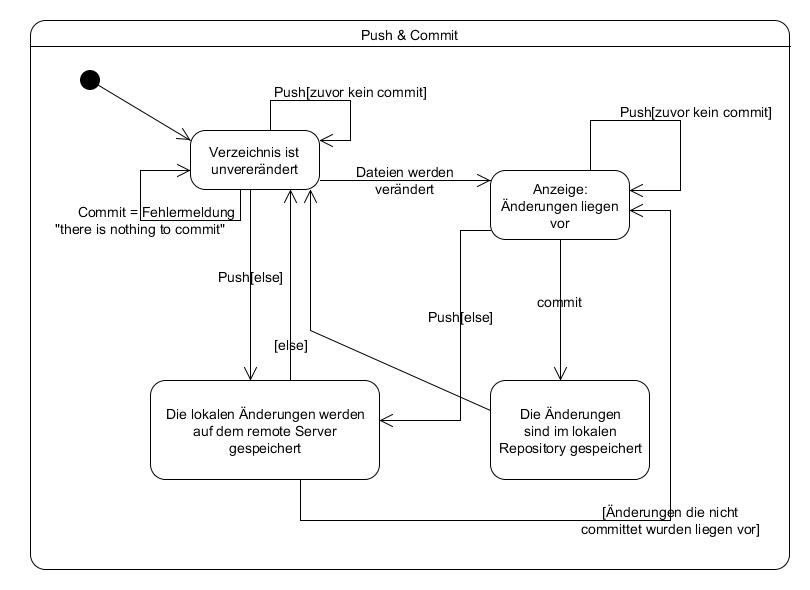
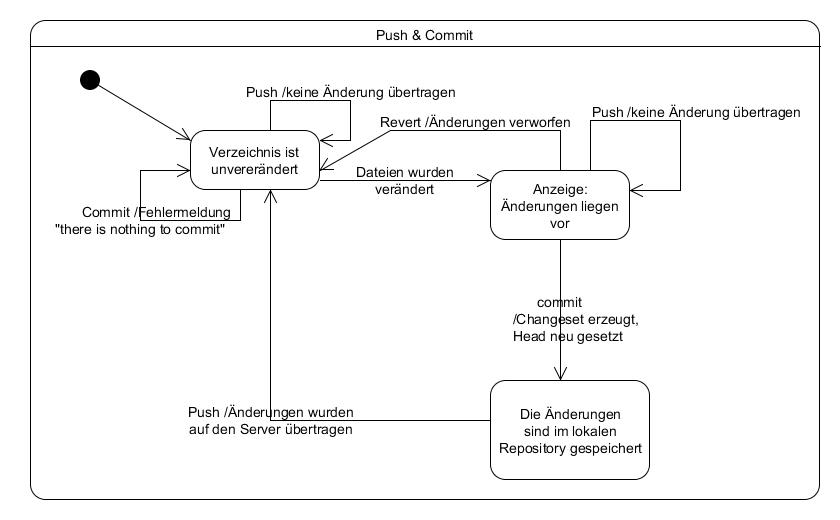
Endversion!!!!!!!!!

diff --git a/Latex/Belegarbeit_GIT.tex b/Latex/Belegarbeit_GIT.tex
@@ -38,16 +38,14 @@
 % und unter -> Option -> Texmaker konfigurieren -> Makeindex Verweis aktualisieren!
 
 \newglossaryentry{merge}		{name=Merge		,description={engl. zusammenführen - Vereinigung von Branches}}
-\newglossaryentry{Repository}	{name=Repository,description={dt. Lager, Depot - Repositorium enthält die Geschichte eines Projekts. Jeder Nutzer hat ein eigenes Repository mit der gesamten Geschichte}}
-\newglossaryentry{Clone} 		{name=Clone		,description={engl. kopieren}}
-\newglossaryentry{Branch}		{name=Branch	,description={engl. Zweig - ein Entwicklungszweig in der Geschichte}}
-\newglossaryentry{Switch}		{name=Switch	,description={engl. wechseln - Switch ermöglicht das Wechseln auf einen anderen Branch (arbeitet man z.B. auf einem seperaten Branch, könnte man mit switch zurück zum Master Branch wechseln)}}
-\newglossaryentry{pull}			{name=Pull		,description={engl. ziehen - Lädt Objekte und Branches. Lädt somit alle Änderungen}}
-\newglossaryentry{commit}		{name=Commit	,description={engl. übergeben - Mit diesem Befehl werden lokale Änderungen im lokalen Repository gespeichert }}
-\newglossaryentry{Pointer}		{name=Pointer	,description={engl. Zeiger - Verweis auf ein existierendes Objekt}}
-\newglossaryentry{Changeset}		{name=Changeset	,description={mehrere Änderungen zu einer Einheit zusammengefasst}}
-\newglossaryentry{Head}		{name=Head	,description={engl. Kopf - Verweis auf die aktuelle Änderung. Neue Änderungen werden hinter dem Head gespeichert}}
-\newglossaryentry{push}		{name=Push		,description={engl. anschieben - Mit diesem Befehl werden die lokalen Änderungen auf den Server übertragen}}
+\newglossaryentry{Repository}	{name=Repository,description={engl. Lager, Depot - Repositorium enthält die Geschichte eines Projekts. Jeder Nutzer hat ein eigenes Repository mit der gesamten Geschichte}}
+\newglossaryentry{Clone} 		{name=Clone		,description={engl. kopieren - Ein entferntes Repository wird auf einen lokalen Rechner übertragen}}
+\newglossaryentry{Branch}		{name=Branch	,description={engl. Zweig - Ein Branch ist ein Entwicklungszweig in der Geschichte}}
+\newglossaryentry{Switch}		{name=Switch	,description={engl. wechseln - Switch ermöglicht das Wechseln auf einen anderen Branch (arbeitet man z.B. auf einem seperaten Branch, könnte man mit Switch zurück zum Master Branch wechseln)}}
+\newglossaryentry{pull}			{name=Pull		,description={engl. ziehen - Pull lädt alle Änderungen vom externen Repository}}
+\newglossaryentry{commit}		{name=Commit	,description={engl. übergeben - Mit diesem Befehl werden lokale Änderungen im lokalen Repository gespeichert}}
+\newglossaryentry{Changeset}		{name=Changeset	,description={In einem Changeset werden mehrere Änderungen zu einer Einheit zusammengefasst}}
+\newglossaryentry{push}		{name=Push		,description={engl. anschieben - Dieser Befehl überträgt die lokalen Änderungen auf den Server}}
 %-------------------------------------------------------------------------------------
 
 \begin{document}
@@ -112,17 +110,17 @@ Außerdem bietet Git ein Webinterface.
 
 \subsection{Use-Case-Modell}
 
-\includegraphics[width=\textwidth]{Use-Case-Modell.png}	
+\includegraphics[width=15cm]{Use-Case-Modell.png}	
 
 Dieses Use-Cases repräsentieren die Interaktion zwischen dem Programmierer (\textit{Aktor}) und dem Git-System (\textit{Subjekt})\\  							% Textit = Textitalian = kursiv
 \\ 														% Absatz
 Der Programmierer benutzt das Git-System um ein bestimmtes Ziel zu erreichen. 
-Der Git-Server (\textit{Sekundäre Aktor}) wird von dem Git-System genutzt um eine Auswahl von Befehlen ausführen zu können.\\
+Der Git-Server (\textit{Sekundäre Aktor}) wird genutzt um mit den lokalen GIT Instanzen synchronisiert zu werden.\\
 \\
 Der Programmierer repräsentiert eine Personengruppe. An einem Projekt können beliebig viele Programmierer beteiligt seien.  
 Der Admin erbt alle Fähigkeiten von dem Programmierer. Demnach kann der Admin auch alle anderen Interaktionen ausüben.  \\
 \\
-Im Use-Case sind die Möglichkeiten, Verwalte Repository, Verwalte Rechte, \gls{Clone} Repository, Bearbeite Quellecode, Erstelle Branch, Merge Branch und \gls{Switch} Branch aufgeführt. \\
+Im Use-Case sind die Möglichkeiten, verwalte Repository, \gls{Clone} Repository, bearbeite Quellcode, erstelle Branch, Merge Branch und \gls{Switch} Branch aufgeführt.\\\\Optional besteht die Möglichkeit für den Admin die Rechte mit Hilfe der Betriebssystemverwaltung über ein Skript in GIT zu integrieren.\\
 \\
 Eine detaillierte Beschreibung der Abläufe folgt in den Use-Case-Szenarien. 
 
@@ -151,16 +149,16 @@ Eine detaillierte Beschreibung der Abläufe folgt in den Use-Case-Szenarien.
 
 \begin{tabularx}{\textwidth}{lX}
 \textbf{Erweiterungen:}\\\\
-\qquad \qquad (1.-4.)b. & Der Nutzer bricht den Vorgang ab.\\
-\qquad \qquad (1.-4.)b.1. & Das Use-Case endet erfolglos.\\
+\qquad \qquad (1.-4.)a. & Der Nutzer bricht den Vorgang ab.\\
+\qquad \qquad (1.-4.)a.1. & Das Use-Case endet erfolglos.\\
 \\
-\qquad \qquad 2.a. & Die Verbindung zum Server kann nicht hergestellt werden. \\
-\qquad \qquad 2.a.1. & Das System informiert den Nutzer. \\
-\qquad \qquad 2.a.2. & Das Use Case endet erfolglos. \\
+\qquad \qquad 2||b. & Die Verbindung zum Server kann nicht hergestellt werden: \\
+\qquad \qquad 2||b.1. & Das System informiert den Nutzer. \\
+\qquad \qquad 2||b.2. & Das Use Case endet erfolglos. \\
 \\
-\qquad \qquad 3.a. & Die Verbindung bricht während der Übertragung ab. \\
-\qquad \qquad 3.a.1. & Das System informiert den Nutzer. \\
-\qquad \qquad 3.a.2. & Das Use Case endet erfolglos. \\\\
+\qquad \qquad 3||b. & Die Verbindung bricht während der Übertragung ab: \\
+\qquad \qquad 3||b.1. & Das System informiert den Nutzer. \\
+\qquad \qquad 3||b.2. & Das Use Case endet erfolglos. \\\\
 
 \end{tabularx}
 
@@ -196,25 +194,25 @@ Eine detaillierte Beschreibung der Abläufe folgt in den Use-Case-Szenarien.
 
 \begin{tabularx}{\textwidth}{lX}
 \textbf{Erweiterungen:}\\\\
-\qquad \qquad (1.-13.)b. & Der Nutzer bricht den Vorgang ab.\\
-\qquad \qquad (1.-13.)b.1. & Das Use-Case endet erfolglos.\\
+\qquad \qquad (1.-13.)a. & Der Nutzer bricht den Vorgang ab.\\
+\qquad \qquad (1.-13.)a.1. & Das Use-Case endet erfolglos.\\
 \\
-\qquad \qquad 2.a. & Die Verbindung zum Server kann nicht hergestellt werden. \\
-\qquad \qquad 2.a.1. & Das System informiert den Nutzer. \\
-\qquad \qquad 2.a.2. & Das Use Case endet erfolglos. \\
+\qquad \qquad 2||b. & Die Verbindung zum Server kann nicht hergestellt werden: \\
+\qquad \qquad 2||b.1. & Das System informiert den Nutzer. \\
+\qquad \qquad 2||b.2. & Das Use Case endet erfolglos. \\
 
 \\
-\qquad \qquad 4.a. & Das System stellt Überschneidungen fest.\\
-\qquad \qquad 4.a.1. & Der Nutzer wird aufgefordert die zu übernehmenden Änderungen auszuwählen.\\
-\qquad \qquad 4.a.2. & Fortsetzung bei 5.\\
+\qquad \qquad 4.b. & Das System stellt Überschneidungen fest.\\
+\qquad \qquad 4.b.1. & Der Nutzer wird aufgefordert die zu übernehmenden Änderungen auszuwählen.\\
+\qquad \qquad 4.b.2. & Fortsetzung bei 5.\\
 \\
-\qquad \qquad 11.a. & Die Verbindung zum Server kann nicht hergestellt werden. \\
-\qquad \qquad 11.a.1 & Das System informiert den Nutzer. \\
-\qquad \qquad 11.a.2. & Das Use Case endet erfolglos. \\
+\qquad \qquad 11||b. & Die Verbindung zum Server kann nicht hergestellt werden: \\
+\qquad \qquad 11||b.1 & Das System informiert den Nutzer. \\
+\qquad \qquad 11||b.2. & Das Use Case endet erfolglos. \\
 \\
-\qquad \qquad 12.a. & Das System stellt Überschneidungen fest.\\
-\qquad \qquad 12.a.1. & Der Nutzer wird aufgefordert die zu übernehmenden Änderungen auszuwählen.\\
-\qquad \qquad 12.a.2. & Fortsetzung bei 13.\\
+\qquad \qquad 12.b. & Das System stellt Überschneidungen fest.\\
+\qquad \qquad 12.b.1. & Der Nutzer wird aufgefordert die zu übernehmenden Änderungen auszuwählen.\\
+\qquad \qquad 12.b.2. & Fortsetzung bei 13.\\
 \end{tabularx}
 
 \newpage
@@ -238,12 +236,12 @@ Eine detaillierte Beschreibung der Abläufe folgt in den Use-Case-Szenarien.
 
 \begin{tabularx}{\textwidth}{lX}
 \textbf{Erweiterungen:}\\\\
-\qquad \qquad 1.a. & Das System stellt fest das dieser Name schon vergeben ist.\\
-\qquad \qquad 1.a.1. & Das System fordert den Nutzer auf einen anderen Namen zu wählen.\\
-\qquad \qquad 1.a.2. & Der Nutzer gibt einen noch nicht vergebenen Namen ein.\\
-\qquad \qquad 1.a.3. & Fortsetzung bei 2.\\\\
-\qquad \qquad (1.-2.)b. & Der Nutzer bricht den Vorgang ab.\\
-\qquad \qquad (1.-2.)b.1. & Das Use-Case endet erfolglos.\\\\\hline\hline\\
+\qquad \qquad 1.b. & Das System stellt fest, dass dieser Name schon vergeben ist.\\
+\qquad \qquad 1.b.1. & Das System fordert den Nutzer auf einen anderen Namen zu wählen.\\
+\qquad \qquad 1.b.2. & Der Nutzer gibt einen noch nicht vergebenen Namen ein.\\
+\qquad \qquad 1.b.3. & Fortsetzung bei 2.\\\\
+\qquad \qquad (1.-2.)a. & Der Nutzer bricht den Vorgang ab.\\
+\qquad \qquad (1.-2.)a.1. & Das Use-Case endet erfolglos.\\\\\hline\hline\\
 \end{tabularx}
 
 
@@ -265,11 +263,11 @@ Eine detaillierte Beschreibung der Abläufe folgt in den Use-Case-Szenarien.
 
 \begin{tabularx}{\textwidth}{lX}
 \textbf{Erweiterungen:}\\\\
-\qquad \qquad 1.a. & Das System stellt Überschneidungen fest.\\
-\qquad \qquad 1.a.1 & Der Nutzer wird aufgefordert die zu übernehmenden Änderungen auszuwählen.\\
-\qquad \qquad 1.a.2 & Fortsetzung bei 2.\\\\
-\qquad \qquad (1.-2.)b. & Der Nutzer bricht den Vorgang ab.\\
-\qquad \qquad (1.-2.)b.1. & Das Use-Case endet erfolglos.\\\\
+\qquad \qquad 1.b. & Das System stellt Überschneidungen fest.\\
+\qquad \qquad 1.b.1 & Der Nutzer wird aufgefordert die zu übernehmenden Änderungen auszuwählen.\\
+\qquad \qquad 1.b.2 & Fortsetzung bei 2.\\\\
+\qquad \qquad (1.-2.)a. & Der Nutzer bricht den Vorgang ab.\\
+\qquad \qquad (1.-2.)a.1. & Das Use-Case endet erfolglos.\\\\
 
 \end{tabularx}
 \newpage
@@ -314,43 +312,11 @@ Eine detaillierte Beschreibung der Abläufe folgt in den Use-Case-Szenarien.
 
 \begin{tabularx}{\textwidth}{lX}
 \textbf{Erweiterungen:}\\\\
-\qquad \qquad 2.a. & Das System kann keine Verbindung zum Git-Server herstellen.\\
-\qquad \qquad 2.a.1. & Das Use-Case endet erfolglos\\\\
-\qquad \qquad (1.-2.)b. & Der Nutzer bricht den Vorgang ab.\\
-\qquad \qquad (1.-2.)b.1. & Das Use-Case endet erfolglos.\\\\
+\qquad \qquad 2||b. & Das System kann keine Verbindung zum Git-Server herstellen.\\
+\qquad \qquad 2||b.1. & Das Use-Case endet erfolglos\\\\
+\qquad \qquad (1.-2.)a. & Der Nutzer bricht den Vorgang ab.\\
+\qquad \qquad (1.-2.)a.1. & Das Use-Case endet erfolglos.\\\\
 \end{tabularx}
-\newpage
-\begin{tabularx}{\textwidth}{lX}
-\textbf{Use Case:} & Rechte verwalten\\
-\textbf{Kurzbeschreibung:} & Der Admin kann Leserechte und Ausführrechte für bestimmte Nutzergruppen verteilen.\\
-\textbf{Vorbedingung:} & Es muss mindestens eine Gruppe bestehen. \\
-\textbf{Primärer Aktor:} & Admin\\
-\textbf{Nachbedingung:} & Die Rechte wurden geändert. \\
-\textbf{Erfolgsszenario:} & 
-\end{tabularx}
-
-\begin{tabularx}{\textwidth}{lX}
-\\
-\qquad 1. & Der Admin gibt das Kommando zum Verwalten von Rechten in die Shell ein mit dem Namen der zu verwaltenden Gruppe.\\
-\qquad 2. & Das System listet die Rechte der ausgewählten Gruppe. \\
-\qquad 3. & Der Admin gibt entsprechende Kommandos zum Verwalten der Rechte ein. \\
-\qquad 4. & Das System informiert den Admin über eine erfolgreiche Ausführung der Aktion.\\
-\qquad 5. & Das Use Case endet erfolgreich.\\\\\hline
-\end{tabularx}
-
-\begin{tabularx}{\textwidth}{lX}
-\textbf{Erweiterungen:}\\\\
-\qquad \qquad 1.a. & Das System kann keine Verbindung zum Git-Server herstellen.\\
-\qquad \qquad 1.a.1 & Das Use-Case endet erfolglos.\\\\
-
-\qquad \qquad (1.-2.)b. & Der Nutzer bricht den Vorgang ab.\\
-\qquad \qquad (1.-2.)b.1. & Das Use-Case endet erfolglos.\\\\
-
-\end{tabularx}
-
-\newpage	
-
-
 
 \newpage	
 \subsection{Domänenmodell}
@@ -358,7 +324,7 @@ Eine detaillierte Beschreibung der Abläufe folgt in den Use-Case-Szenarien.
 \includegraphics[width=\textwidth]{Domaenenmodell.jpg}\\
 Die Abbildung stellt das Domänenmodell der Software GIT dar.\\\\
 
-Das Repository ist die Hauptklasse unseres Modells. Es kann ein Repository auf einem Server existieren, von dem beliebig viele lokale Repositories geklont werden können (siehe \hyperlink{target}{Clone Repository} - Zustandsdiagramme). Zu jedem Repository gehören mindestens ein oder mehrere Branches und beliebig viele \gls{Changeset}s. Jeder Branch enthält einen \gls{Pointer} (\gls{Head}) welcher auf das letzte in diesem Branch erzeugte Changeset zeigt. Die Changesets zeigen mittels eines Pointers auf das jeweilige Changeset welches zuvor erzeugt wurde. Durch diese listenartige Verkettung entsteht die History. Durch die Verschiebung des Heads besteht die Möglichkeit vorgenommene Änderungen wieder rückgängig zu machen. Jedes Changeset beinhaltet mindestens eine Modifikation. Eine Modifikation ist eine zusammenhängende Textpassage (durch die Offsets definiert) in einer Datei die geändert wurde. 
+Das Repository ist die Hauptklasse unseres Modells. Es kann ein Repository auf einem Server existieren, von dem beliebig viele lokale Repositories geklont werden können (siehe \hyperlink{target}{Clone Repository} - Zustandsdiagramme). Zu jedem Repository gehören mindestens ein oder mehrere Branches und beliebig viele \gls{Changeset}s. Branches und Changesets sind Knoten. Changesets benötigen immer einen Vorgängerknoten somit gilt, dass ein Branch immer zuerst existieren muss. Auf einen Knoten können beliebig viele Branches folgen. Branches verzweigen also die History. Jedes Changeset beinhaltet mindestens eine Modifikation. Es gibt mehrere Arten von Modifikationen. Eine FileModification beschreibt eine zusammenhängende Textpassage (durch die Offsets definiert) in einer Datei die geändert wurde. Außerdem können Dateien erzeugt oder gelöscht werden. Wenn ein File verschoben wird, entspricht das intern der Löschung und Neuerzeugung des Files.
 
 \newpage		
 \subsection{Ausgewählte Zustandsdiagramme} \label{sec:zustandsd}
@@ -384,8 +350,7 @@ Bei erfolgreicher Anmeldung wird das Repository lokal auf dem Computer gespeiche
 Alternative kann auch ein lokales leeres Repository initialisiert werden.\\\\\\
 \underline{\textbf{\textsc{Pull}}}\\
 \includegraphics[width=\textwidth]{Pull.jpg}\\\\
-Vom Nutzer gewählter Zeitpunkt" vielleicht besser "Pullstartvorgang"
-Zu jedem vom Nutzer gewählten Zeitraum hat er die Möglichkeit, sein lokales Repository mit dem externen Repository abzugleichen. \\
+Zu jedem vom Nutzer gewählten Zeitpunkt hat er die Möglichkeit, sein lokales Repository mit dem externen Repository abzugleichen. \\
 Dafür wählt er die Option Pull, die alle seit dem letzten Abgleich veränderten Daten übernimmt.
 Ein Konflikt tritt auf, wenn Änderungen an der gleichen Stelle vorgenommen wurden.
 Der Nutzer muss dann den Konflikt lösen in dem er dem Programm sagt welche Änderung übernommen werden soll.
@@ -400,13 +365,13 @@ Der Nutzer muss dann den Konflikt lösen in dem er dem Programm sagt welche Änd
 \newpage		
 \section{\underline{Erfahrung aus der Teamarbeit}}
 
-Git hat uns beste Möglichkeiten geboten gemeinsam an dem Projekt zu arbeiten.
-Die Versionsverwaltung und das Austauschen der Daten ermöglichten uns auch in Zweiergruppen an den einzelnen Teilen zu arbeiten. Das gemeinschaftliche Zusammenfügen der Daten lief dann problemlos. Allerdings ist auch nicht zu vernachlässigen, dass wir das Git-System bis an die Grenzen betrieben haben und es zu dem ein oder anderen Konflikt mit der Software kam. Alles in allem lässt sich die Teamarbeit als erfolgreich betrachten. Auch wenn es nicht immer einfach war ein gemeinsames Treffen zu koordinieren. 
+Zu Beginn unseres Projektes haben wir uns dazu entschieden GIT für die Versionsverwaltung und den Austausch zu nutzen. Da die üblichen Textverwaltungsprogramme ihren Inhalt nicht als Klartext speichern, welches eine Voraussetzung für GIT ist, haben wir uns dazu entschieden LaTeX zu nutzen. Somit hat uns GIT beste Möglichkeiten geboten gemeinsam an dem Projekt zu arbeiten. Die Versionsverwaltung und das Austauschen der Daten ermöglichten uns auch in Zweiergruppen an den einzelnen Punkten zu arbeiten. Das gemeinschaftliche Zusammenfügen der Daten lief nicht immer problemlos, somit hatten wir die Möglichkeit uns intensiv mit der Software auseinander zu setzen. Wie bereits aus anderen Gruppenarbeiten zu erwarten lief die Teamarbeit problemlos ab. 
+Die Teamarbeit lässt sich alles in allem als erfolgreich betrachten. Auch wenn es nicht immer einfach war ein gemeinsames Treffen zu koordinieren. 
 \\\\
 
 \section{\underline{Schlussbetrachtung}}
 	
-Zusammenfassend lässt sich sagen, dass diese Projektarbeit eine gute Möglichkeit war sich mit Git und mit den Werkzeugen des Software Engineerings auseinander zu setzen. Es ist allerdings zu bedenken, dass man eine gewisse Einbearbeitungszeit benötigt um mit Git umgehen zu können. Des Weiteren haben wir dieses Projekt dazu genutzt uns mit Latex näher zu beschäftigen. Es hat uns fasziniert die Möglichkeiten von Latex zu entdecken, auch wenn es hier und da einige Probleme gab. \\
+Zusammenfassend lässt sich sagen, dass diese Projektarbeit eine gute Möglichkeit war sich mit GIT und mit den Werkzeugen des Software Engineerings auseinander zu setzen. Es ist allerdings zu bedenken, dass man eine gewisse Einbearbeitungszeit benötigt um mit GIT umgehen zu können. Des Weiteren haben wir dieses Projekt dazu genutzt uns mit Latex näher zu beschäftigen. Es hat uns fasziniert die Möglichkeiten von Latex zu entdecken, auch wenn es hier und da einige Probleme gab.\\
 
 \end{document}
 
